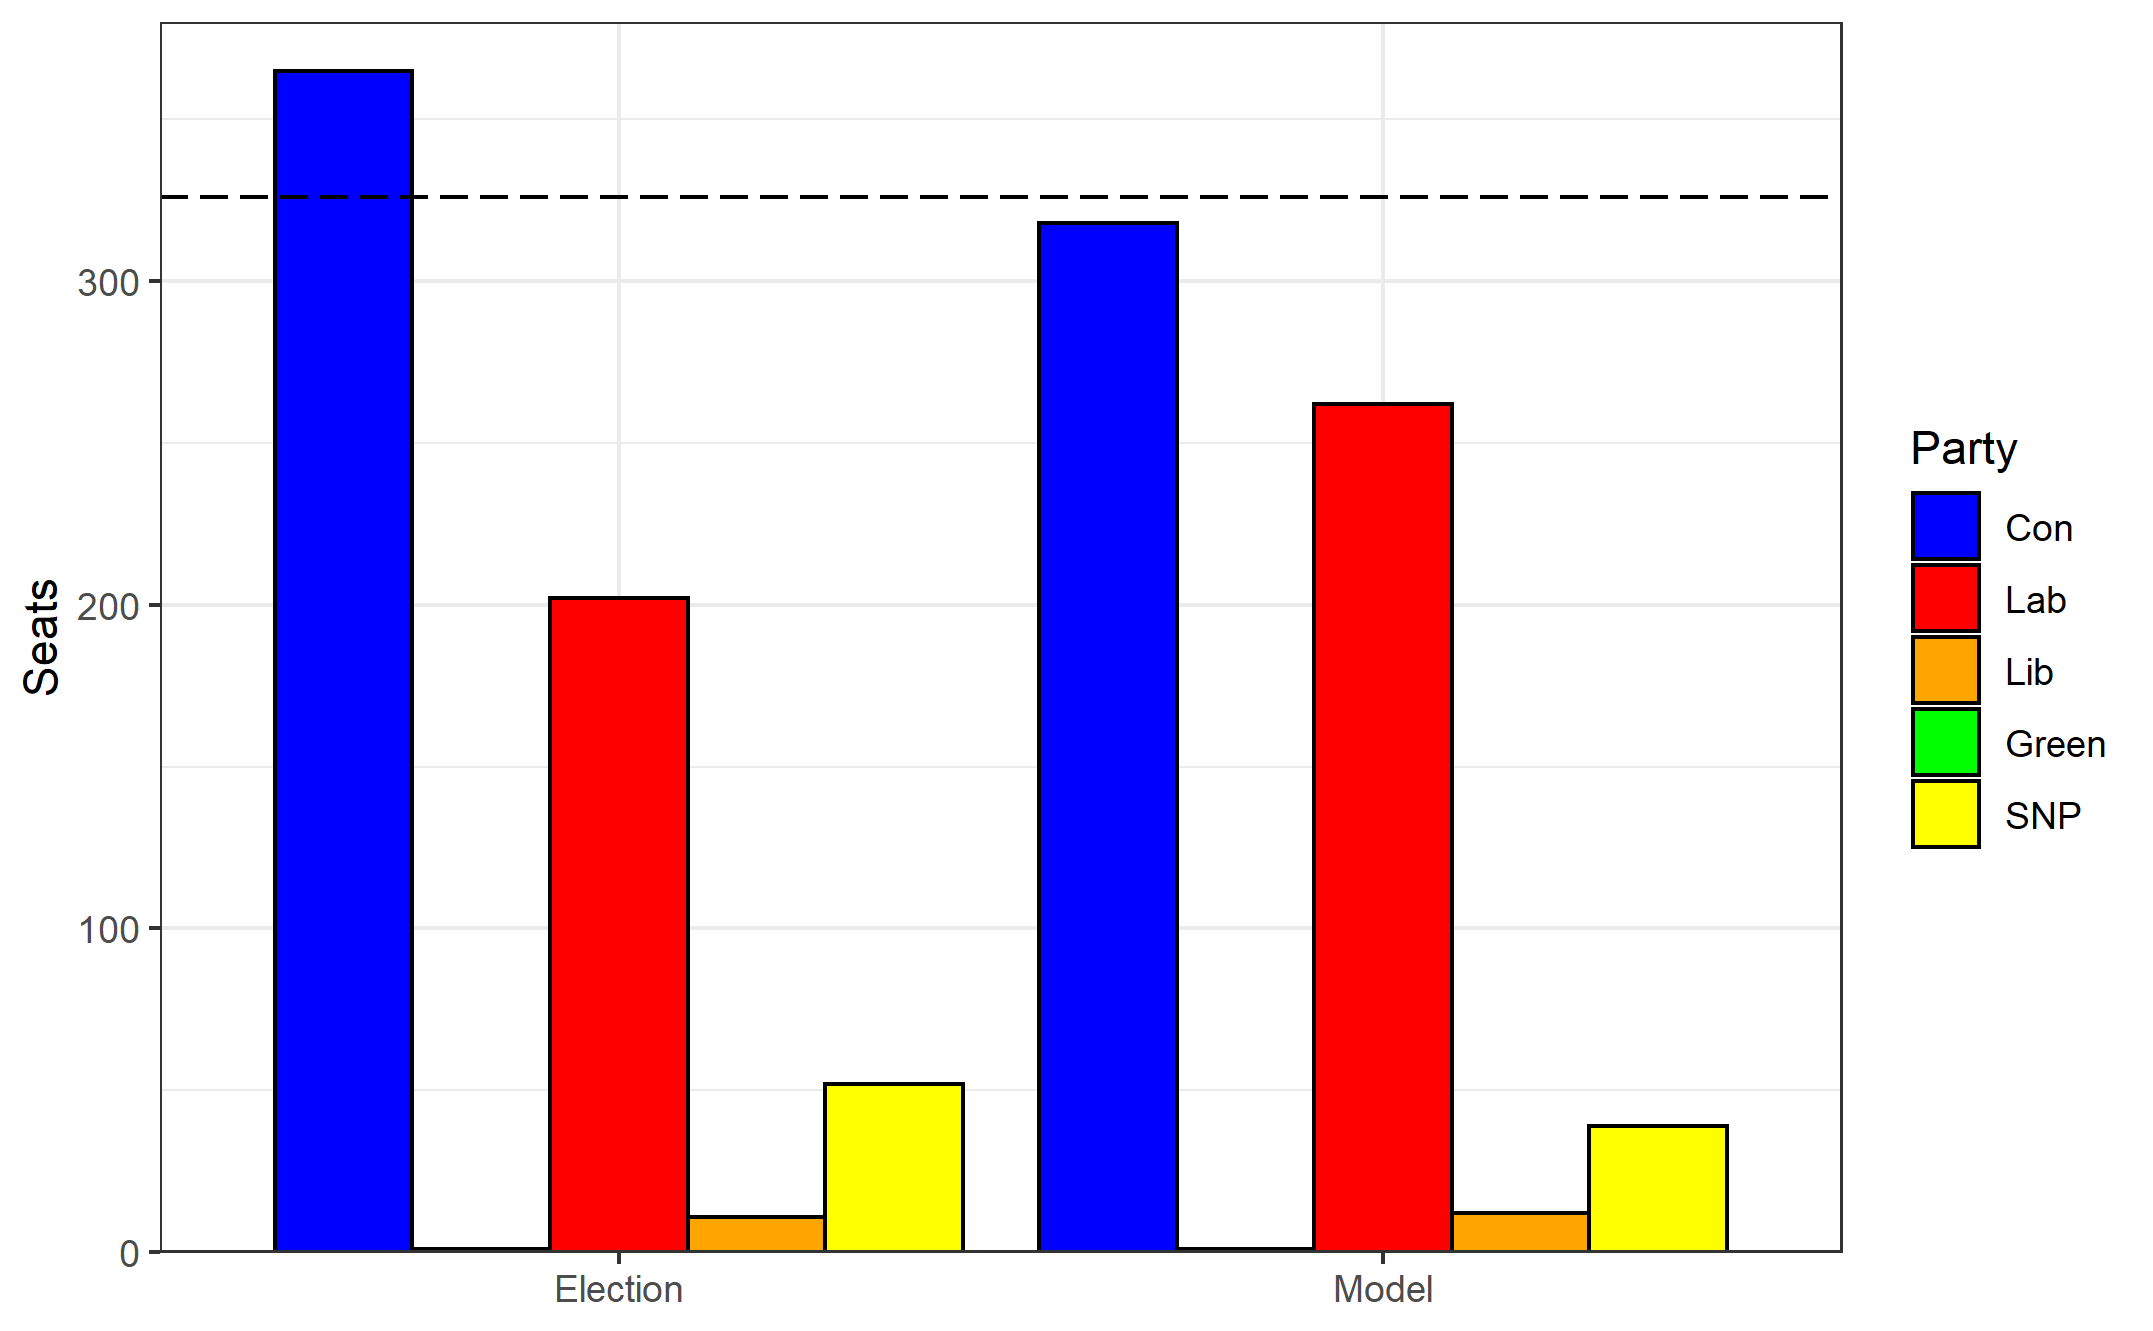
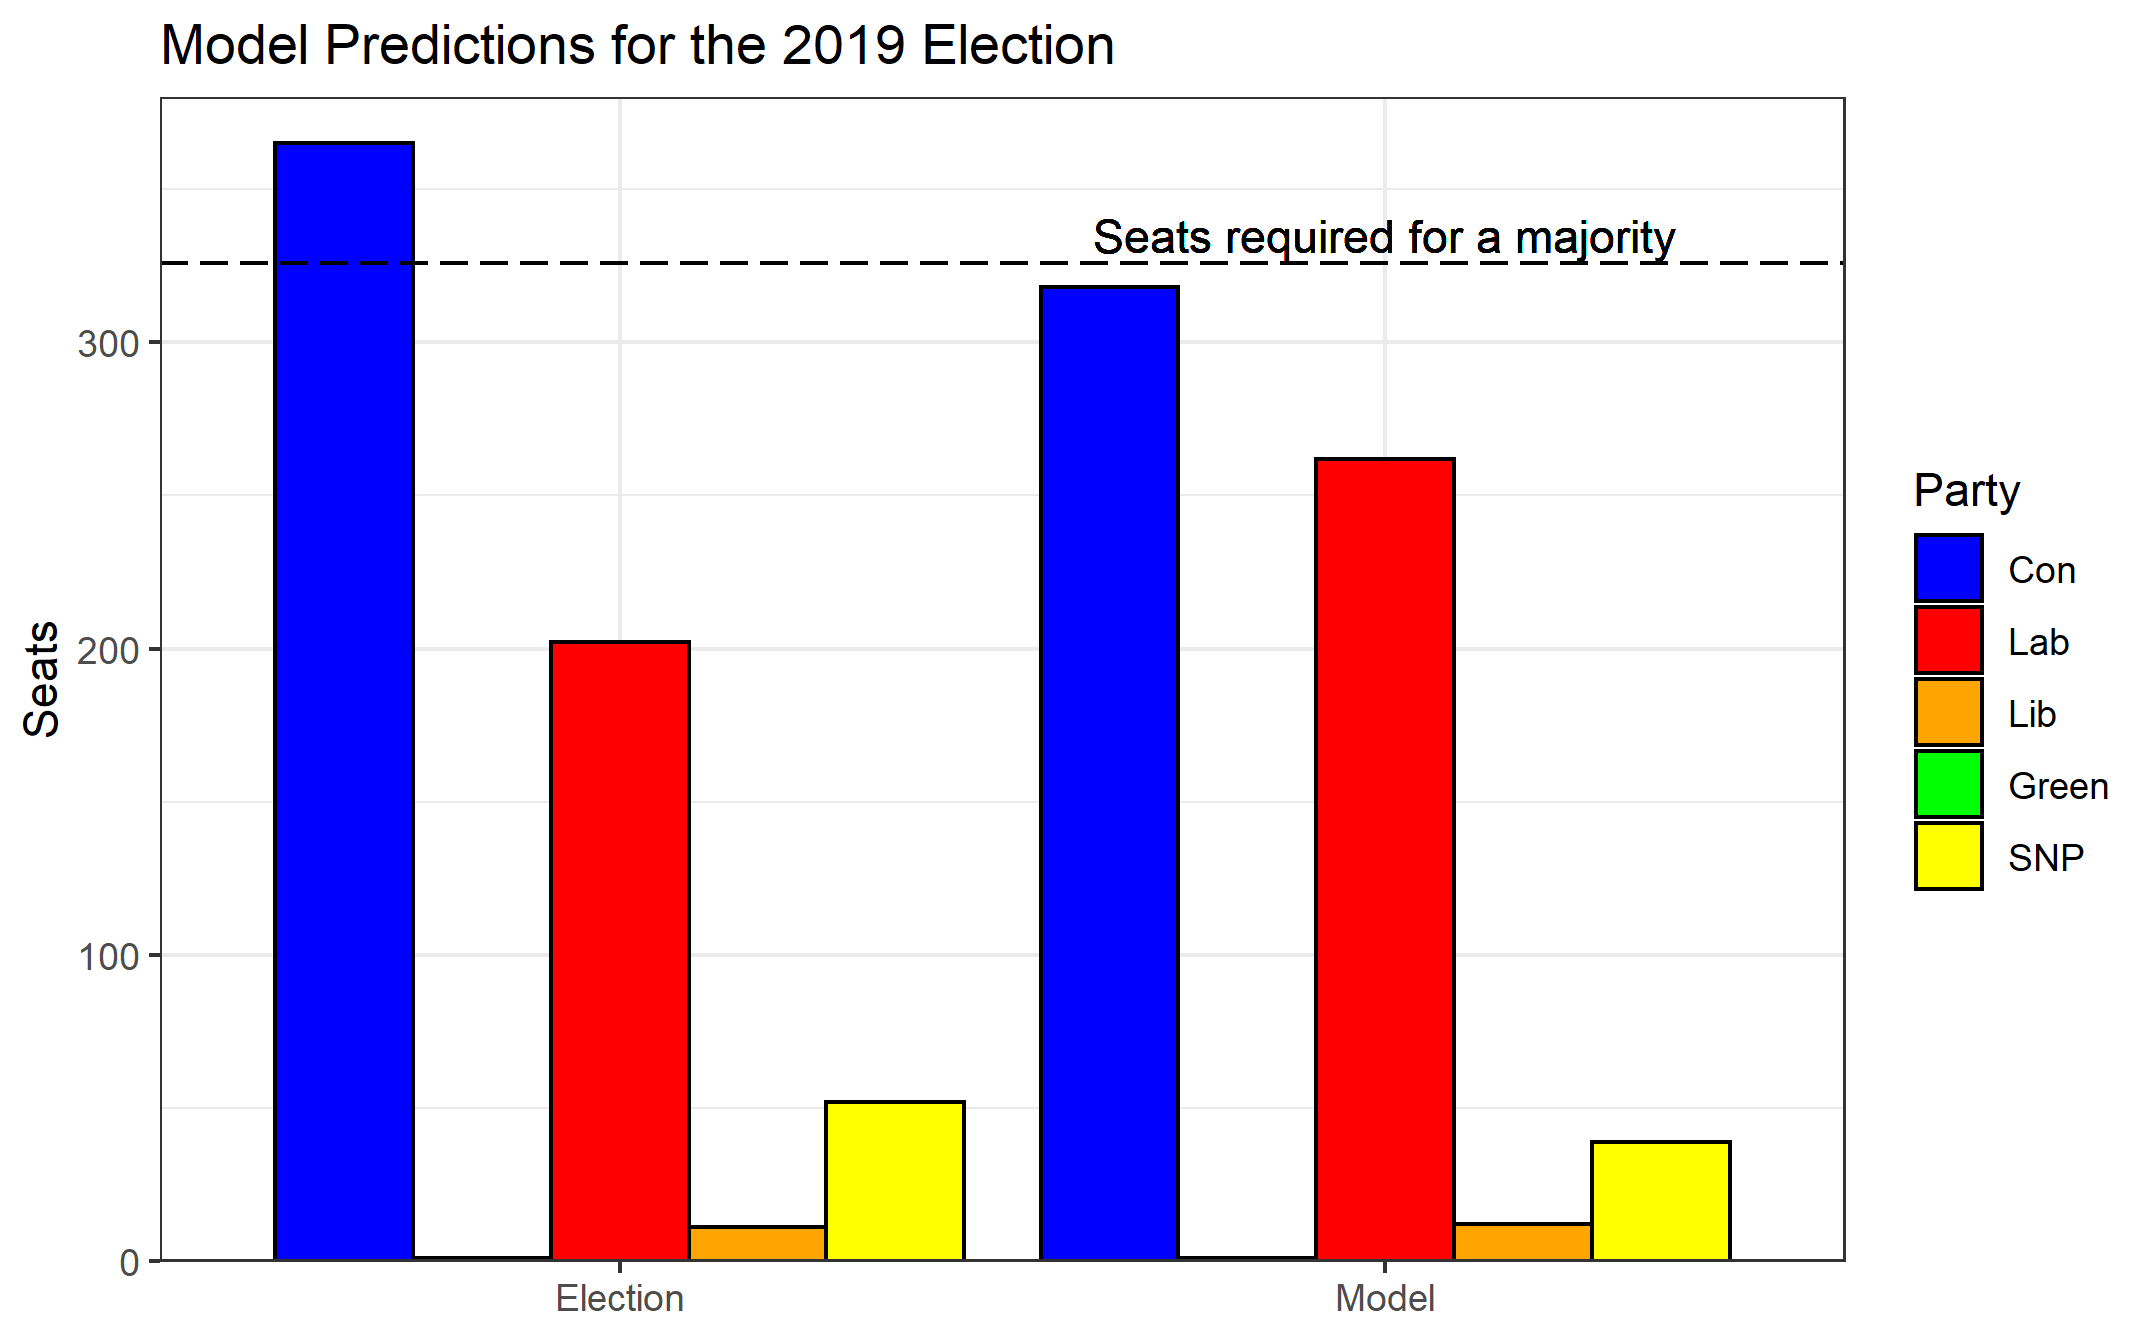
Updated html and pred plot

diff --git a/html/elections.html b/html/elections.html
@@ -73,15 +73,19 @@
                         <p>But how well does a model based on polling alone perform at forecasting an election? To answer that question, we're going to have to build and test a model.</p>
                         <p>I put together some models trained with the following variables for each party, created from polling data from Wikipedia:</p>
                         <ul type="circle">
-                            <li>The most recent poll numbers</li>
+                            <li>The last poll numbers</li>
                             <li>The average of the polls a week before the election</li>
                             <li>The highest level of support from the polls</li>
                             <li>The lowest level of support from the polls</li>
                             <li>The overall linear trend of the polls</li>
                             <li>A prediction of the final vote share</li>
                         </ul>
-                        <p>Using these variables, and factoring for incumbancy, I was able to fit a model to predict seat results for the 2019 election. With this model specification, we would have correctly forecast the results of 88% of the seats. Below shows the comparison between the actual resutls and the model's predictions.</p>
+                        <p>Using these variables, and factoring for incumbancy, I was able to fit a model to predict seat results for the 2019 election. With this model specification, we would have correctly forecast the results of 88% of the seats. Below shows the comparison between the actual results and the model's predictions. The dotted line here represents the seats needed for a majority (626 seats).</p>
                         <img class="img-fluid" src = "/images/pred_plot.png" width="700" height="300">
+                        <p>Using just polls and incumbancy alone, we can produce a fairly accurate model. However, this model would have incorrectly forecast the overall result as a Conservative minority government, rather tha the 80 seat majority that actually occured.</p>
+                        <h1>The Fundementals Approach</h1>
+                        <p>When practitioners are forecasting an election, they will often combine the polling with the 'fundementals'. These include socio-economic variables that may have an impact on voting behaviour. </p>
+                        <p>For this model, I've included constituency census and house price data alongside national indicators like GDP growth and crime rates. Producing the following predictions with</p>
                     </div>
                 </div>
             </div>
